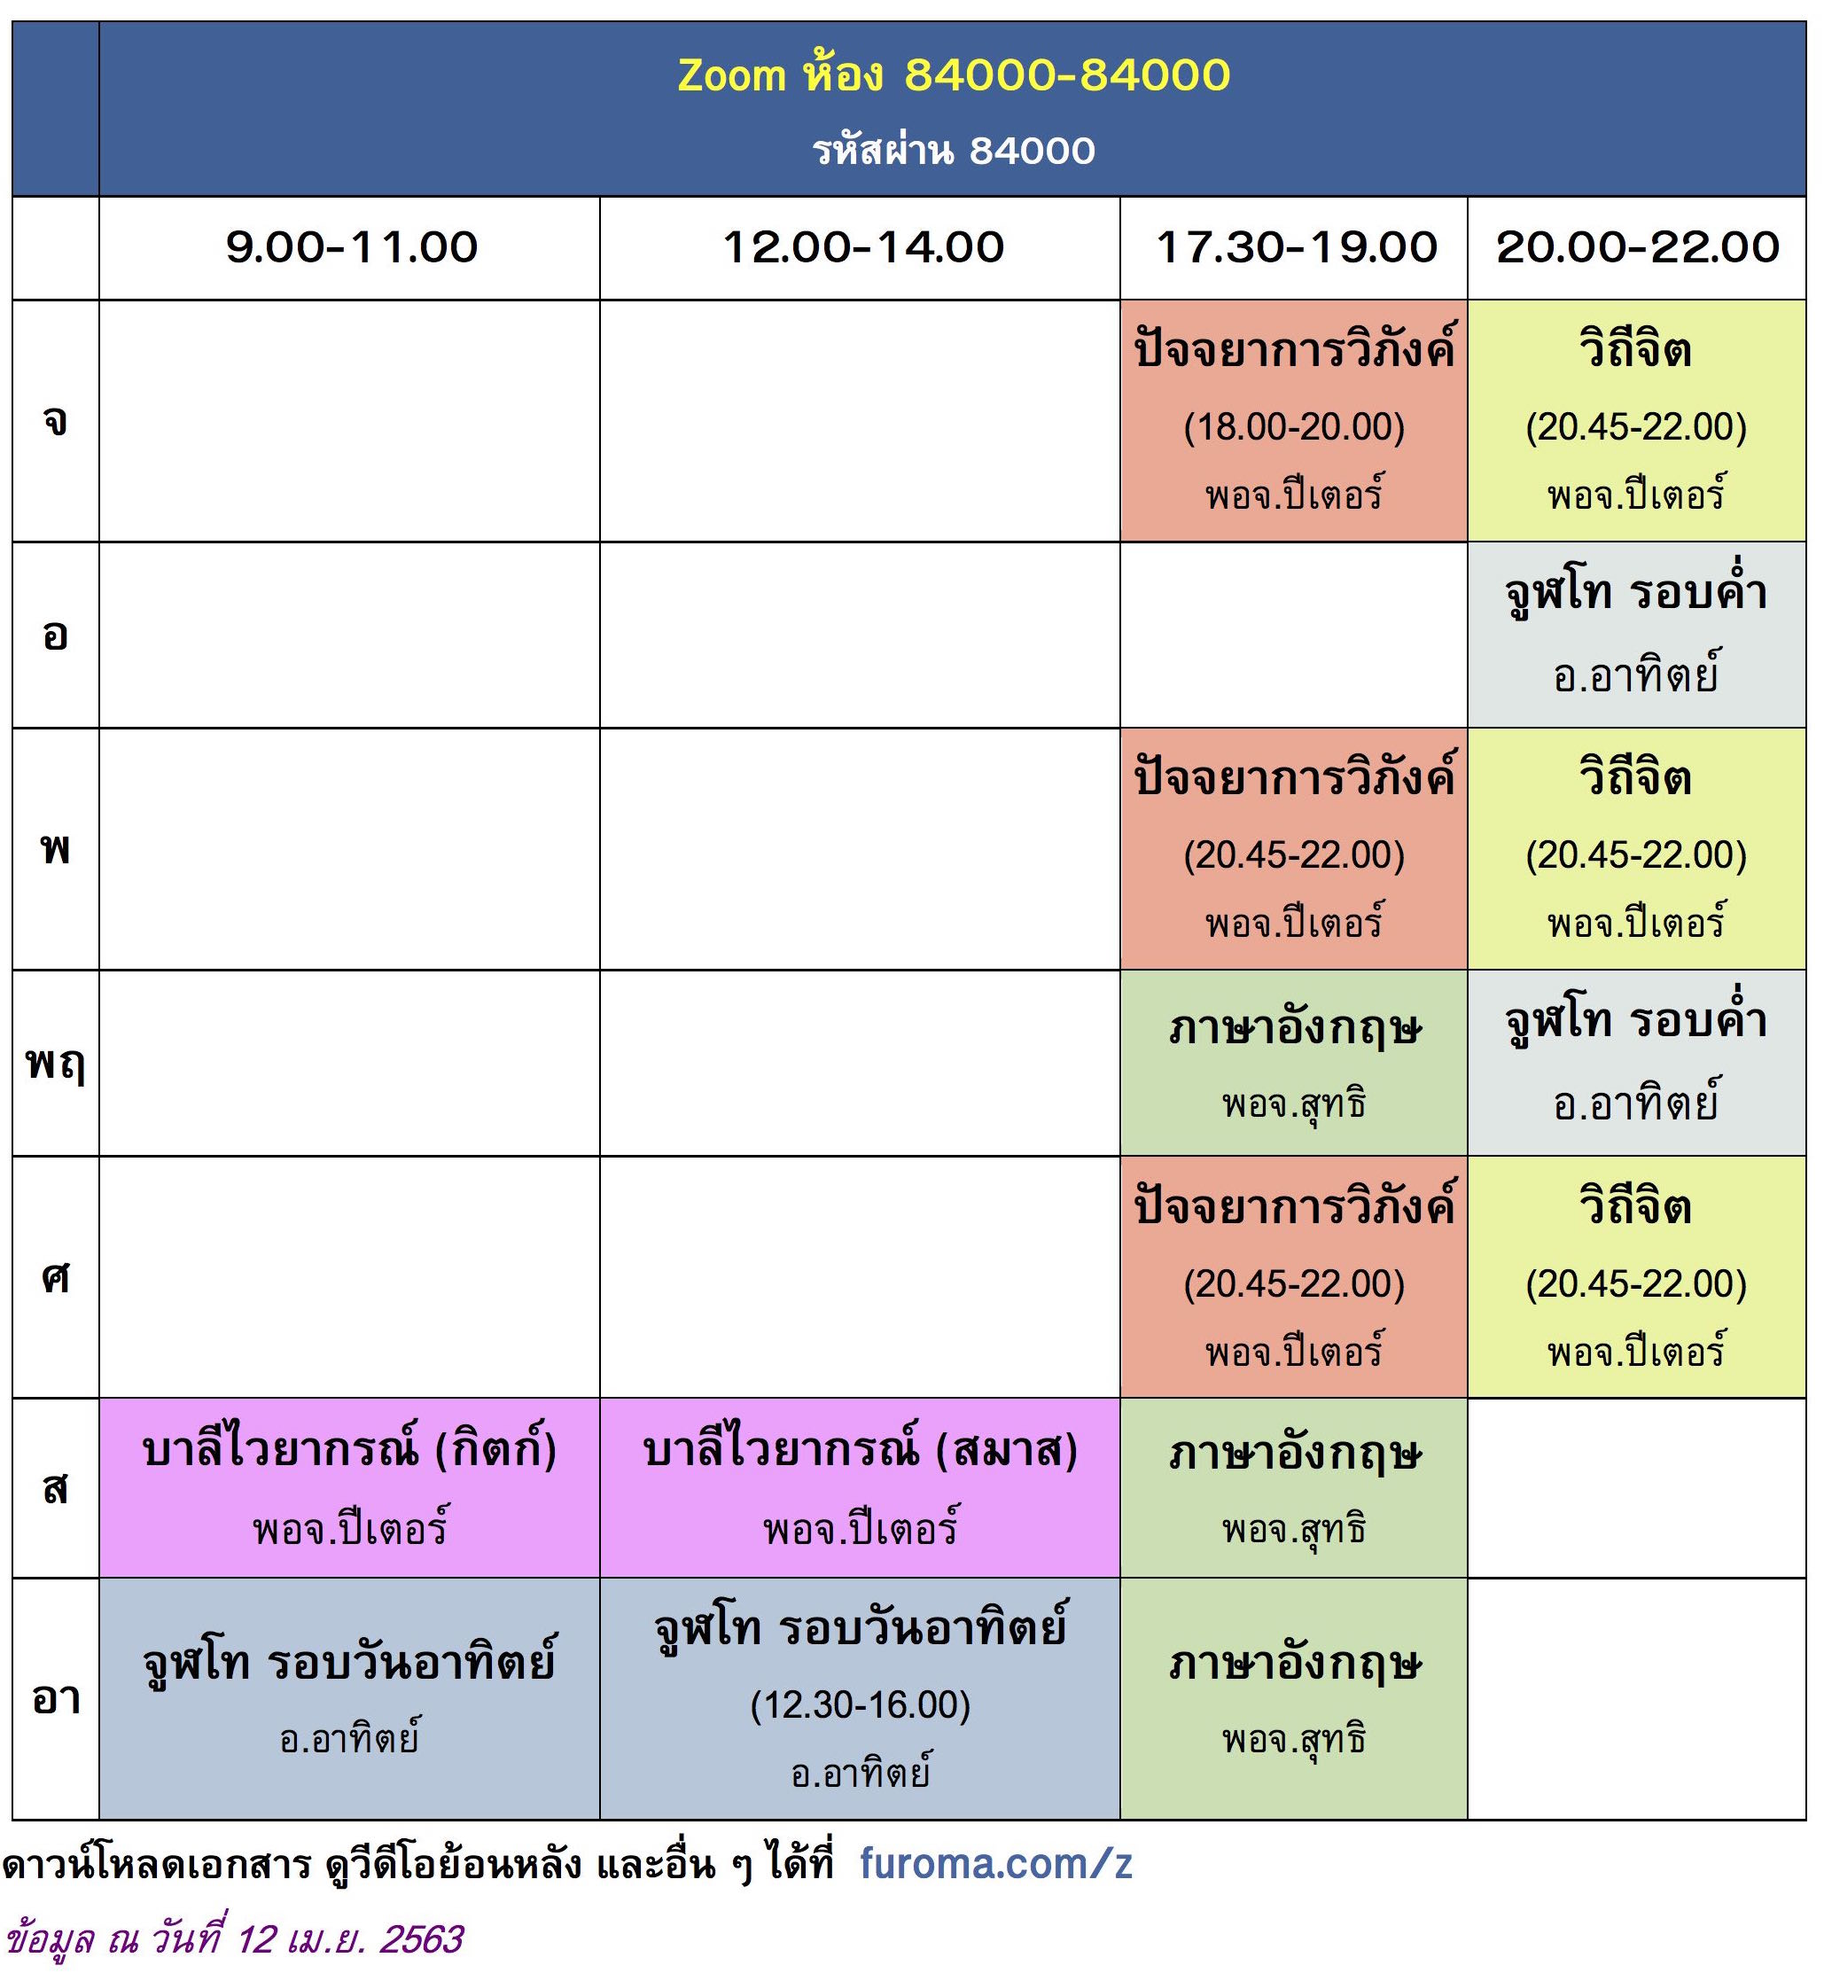
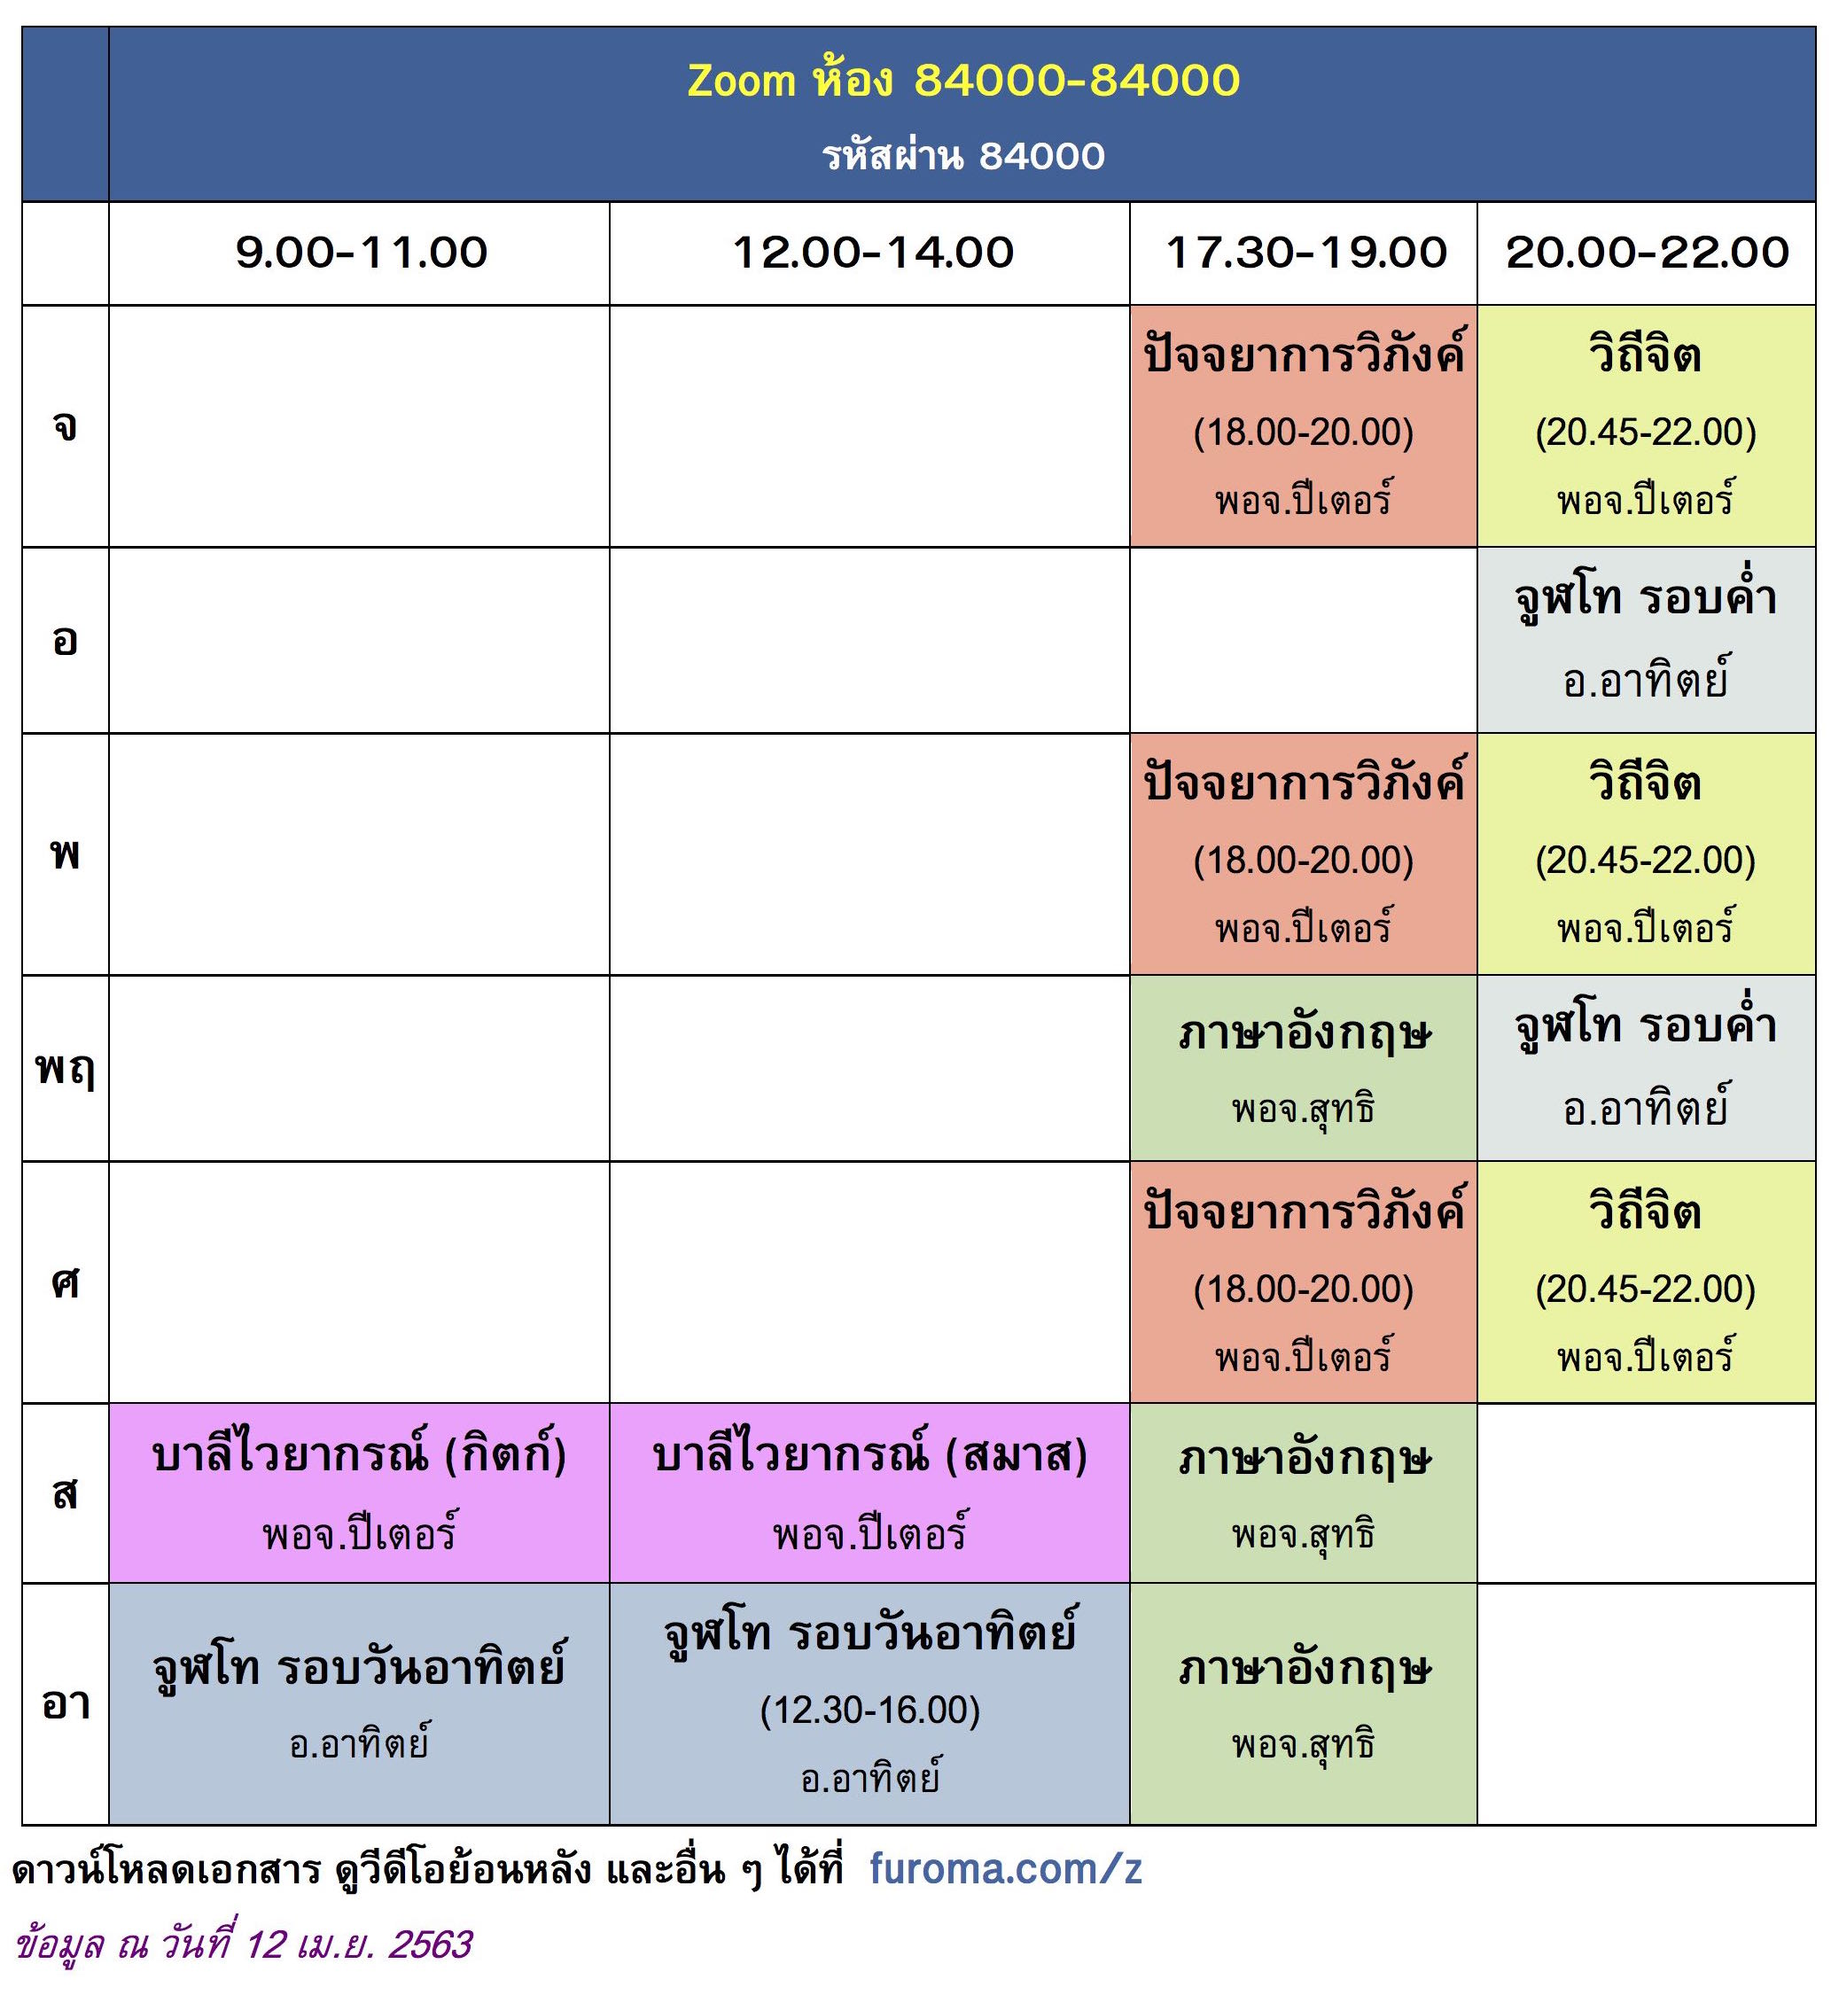
2020-04-12v2

diff --git a/z/index.html b/z/index.html
@@ -63,7 +63,7 @@
 <B>ปัจจยาการวิภังค์</B>: เลื่อนคลาสวันที่ 15 เม.ย. เป็นวันที่ 14 เม.ย.</SPAN>
 <TABLE cellpadding=0 cellspacing=0 align=center><TR valign=top><TD>
 <A href=42000.jpg><IMG border=0 src="42000.jpg?04-12" width=500px height=600px /></A>
-<A href=84000.jpg><IMG border=0 src="84000.jpg?04-12"  width=500px height=600px /></A></TABLE>
+<A href=84000.jpg><IMG border=0 src="84000.jpg?04-12v2"  width=500px height=600px /></A></TABLE>
 (คลิกที่รูป เพื่อดูตารางสอนที่ใหญ่ขึ้น)<BR/>
 
 <BR/><SPAN style="text-align:center; color:magenta; font-size:22px; font-weight:bold;">สื่อการเรียน</SPAN>
